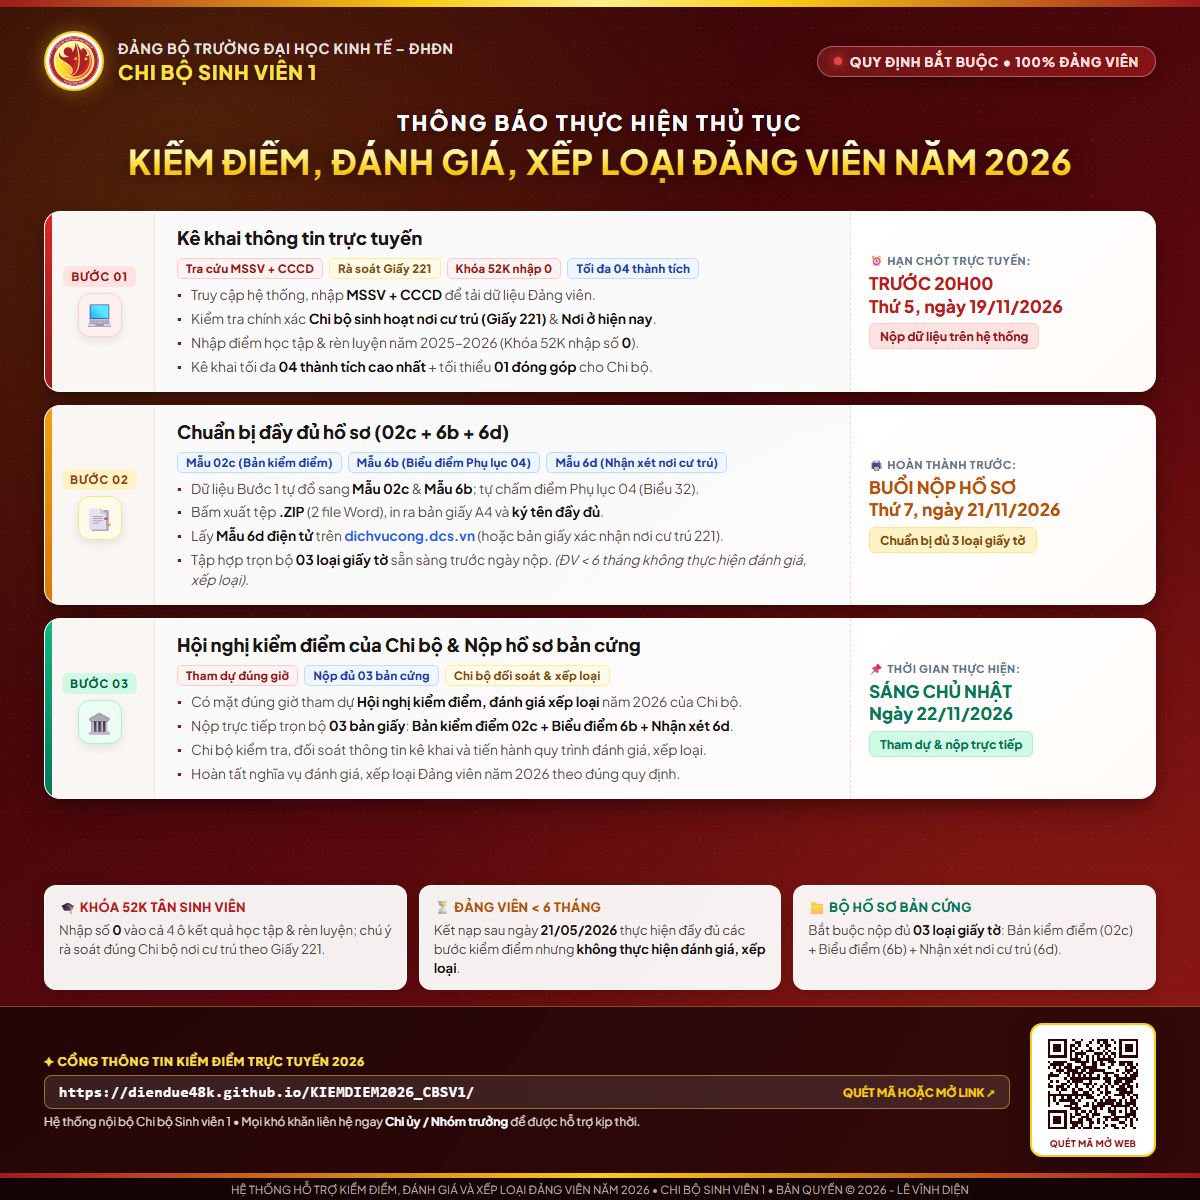
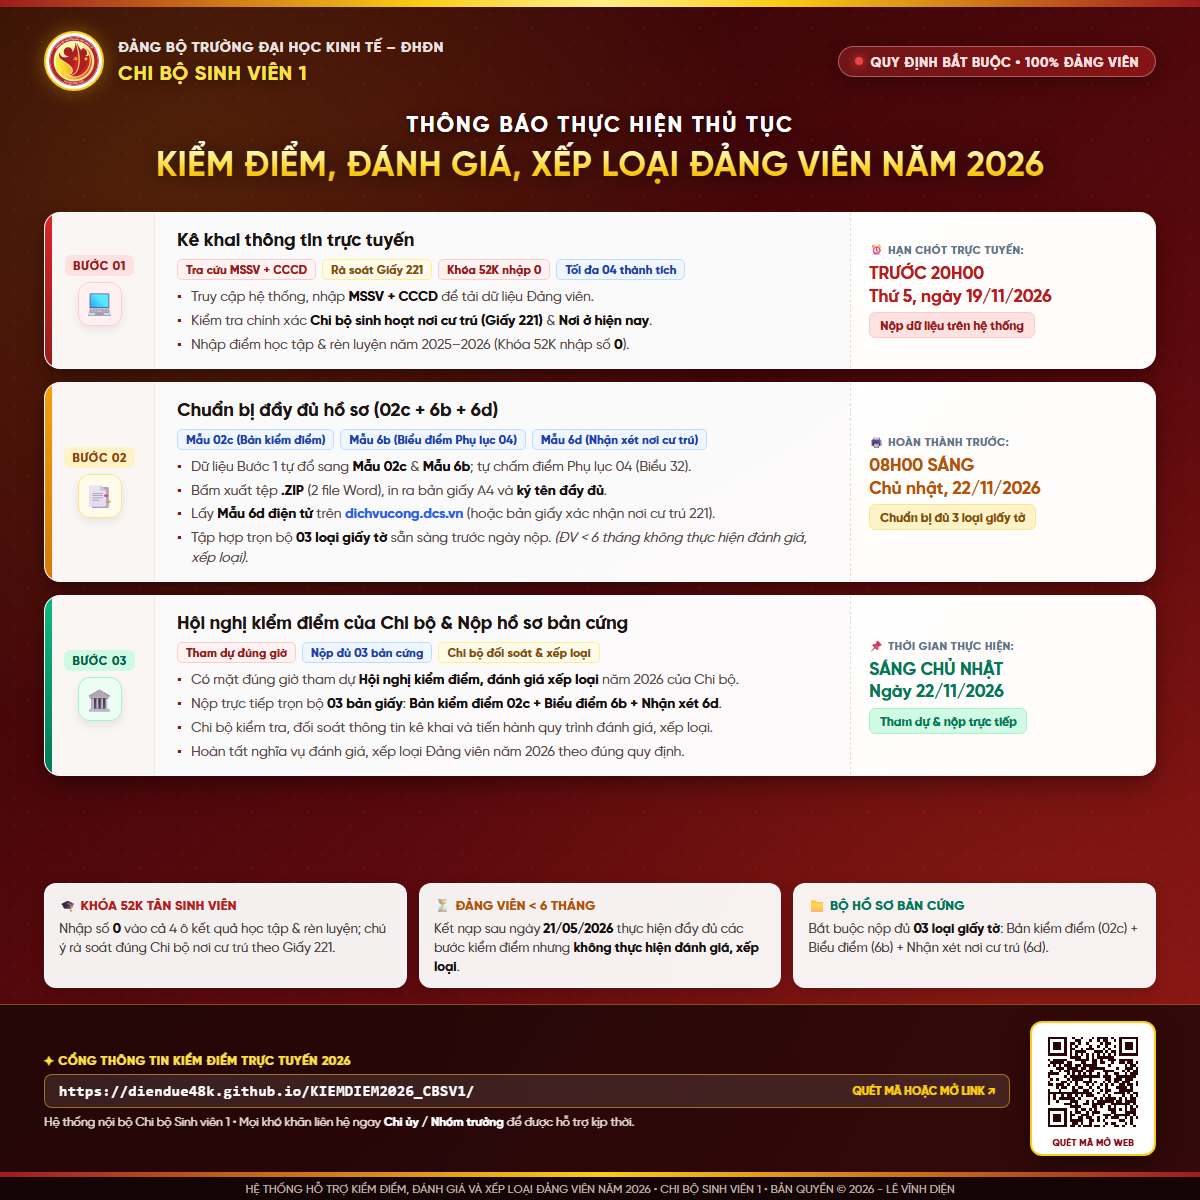
chore(poster): update Step 2 deadline to 08h00 22/11/2026 and remove Step 1 achievement bullet

diff --git a/poster-yeu-cau.html b/poster-yeu-cau.html
@@ -747,7 +747,6 @@
                   <li>Truy cập hệ thống, nhập <strong>MSSV + CCCD</strong> để tải dữ liệu Đảng viên.</li>
                   <li>Kiểm tra chính xác <strong>Chi bộ sinh hoạt nơi cư trú (Giấy 221)</strong> &amp; <strong>Nơi ở hiện nay</strong>.</li>
                   <li>Nhập điểm học tập &amp; rèn luyện năm 2025–2026 (Khóa 52K nhập số <strong>0</strong>).</li>
-                  <li>Kê khai tối đa <strong>04 thành tích cao nhất</strong> + tối thiểu <strong>01 đóng góp</strong> cho Chi bộ.</li>
                 </ul>
               </div>
               <div class="step-col-deadline">
@@ -779,7 +778,7 @@
               </div>
               <div class="step-col-deadline">
                 <div class="dl-header-pill">🖨 Hoàn thành trước:</div>
-                <div class="dl-big-time">BUỔI NỘP HỒ SƠ<br>Thứ 7, ngày 21/11/2026</div>
+                <div class="dl-big-time">08H00 SÁNG<br>Chủ nhật, 22/11/2026</div>
                 <span class="dl-action-badge">Chuẩn bị đủ 3 loại giấy tờ</span>
               </div>
             </div>
